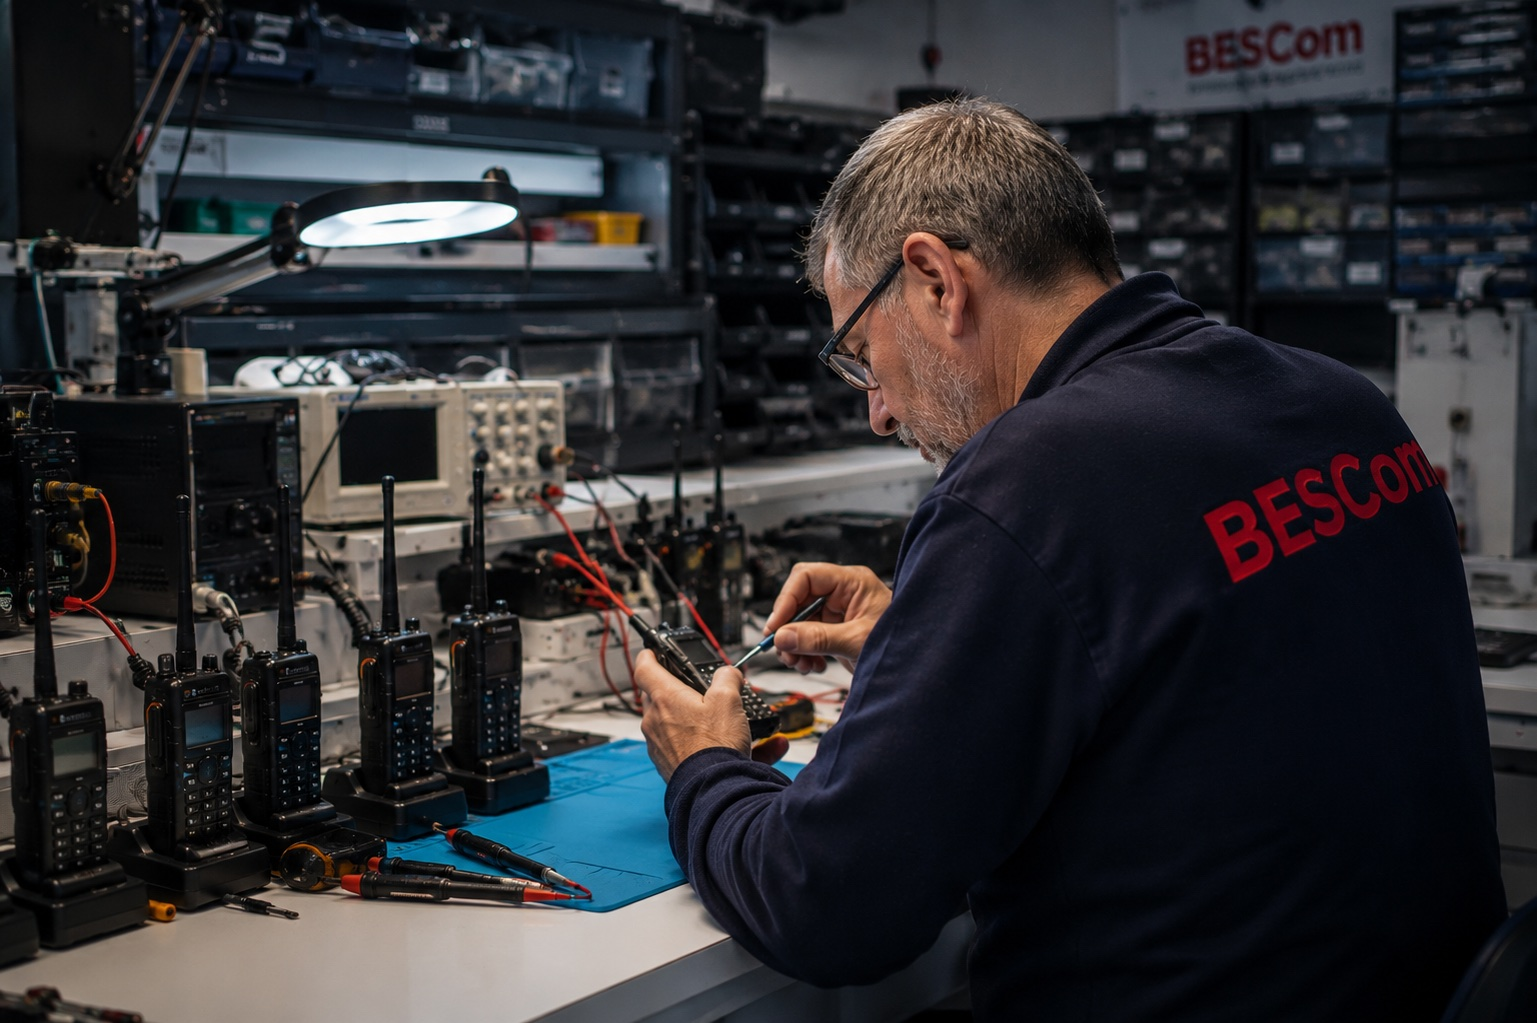
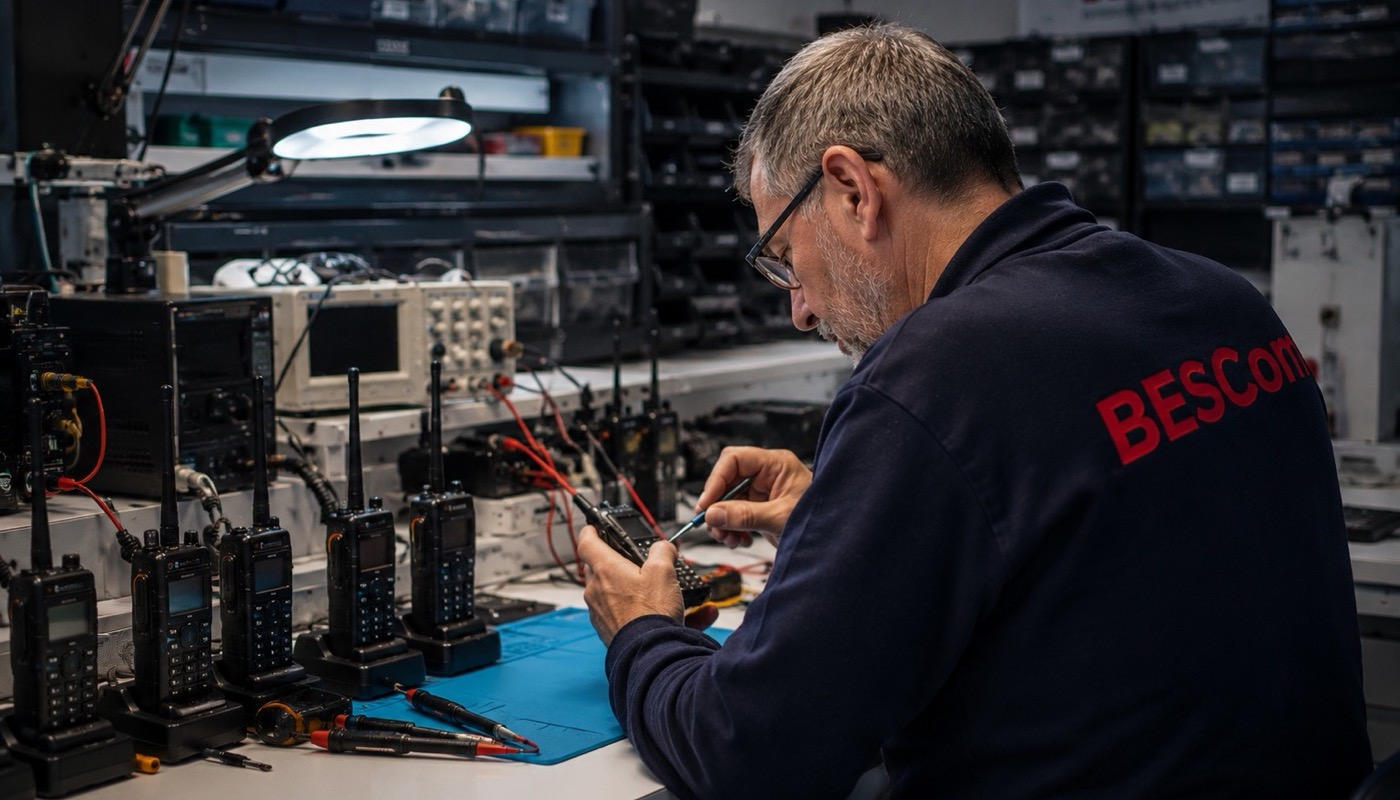
feat: Foto im Abschnitt Defekt? Wir bringen es wieder zum Laufen (handfunkgeraete.html)

diff --git a/handfunkgeraete.html b/handfunkgeraete.html
@@ -314,6 +314,12 @@
         <p>Mechanische Schäden, Displaydefekte, Akkuprobleme oder Softwarefehler – wir diagnostizieren und reparieren.</p>
       </div>
 
+      <div data-aos="fade-up">
+        <img src="assets/images/HFG-Reparatur.jpg"
+             alt="BESCom Techniker repariert Handfunkgeräte in der Werkstatt"
+             class="section-photo" loading="lazy" width="1400" height="800">
+      </div>
+
       <div class="service-detail">
 
         <div data-aos="fade-right">
